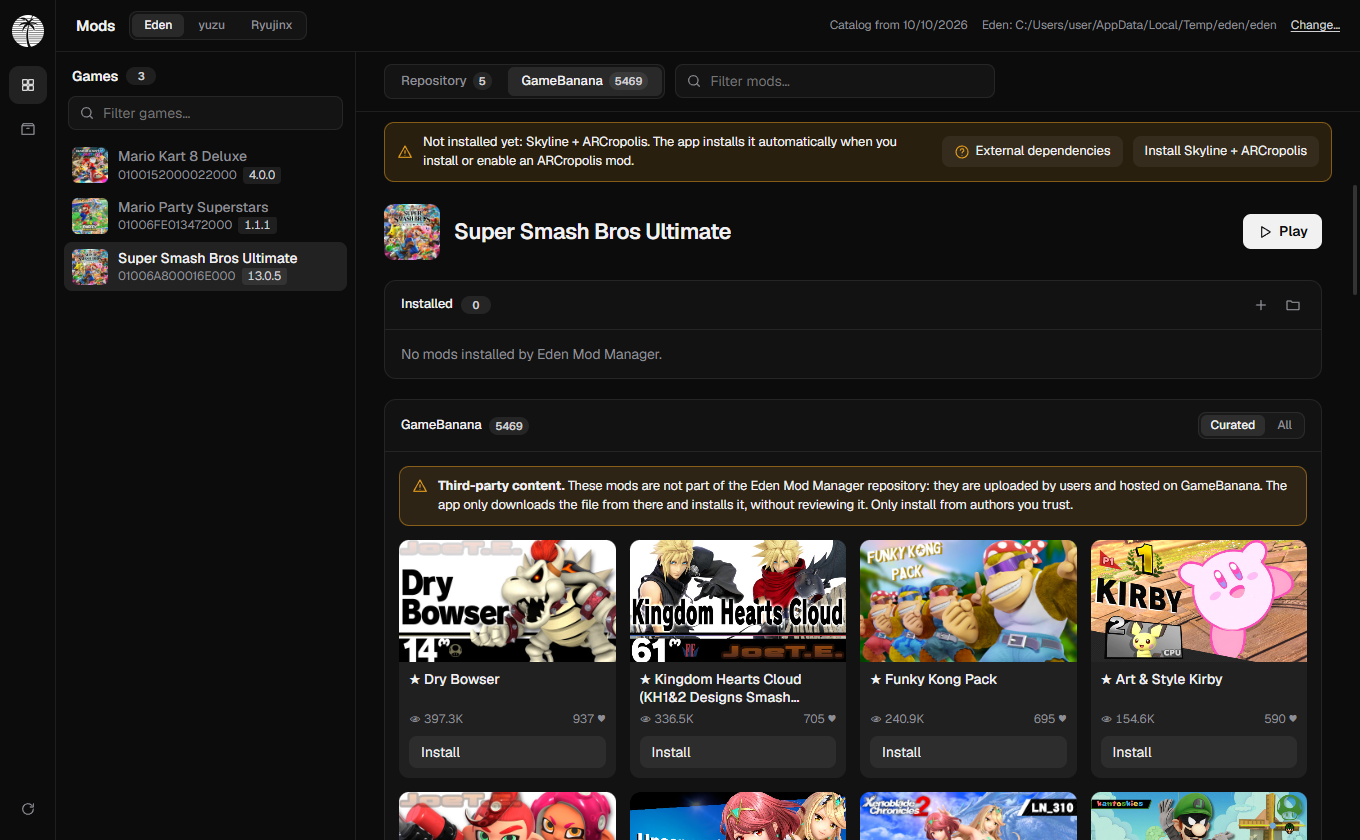
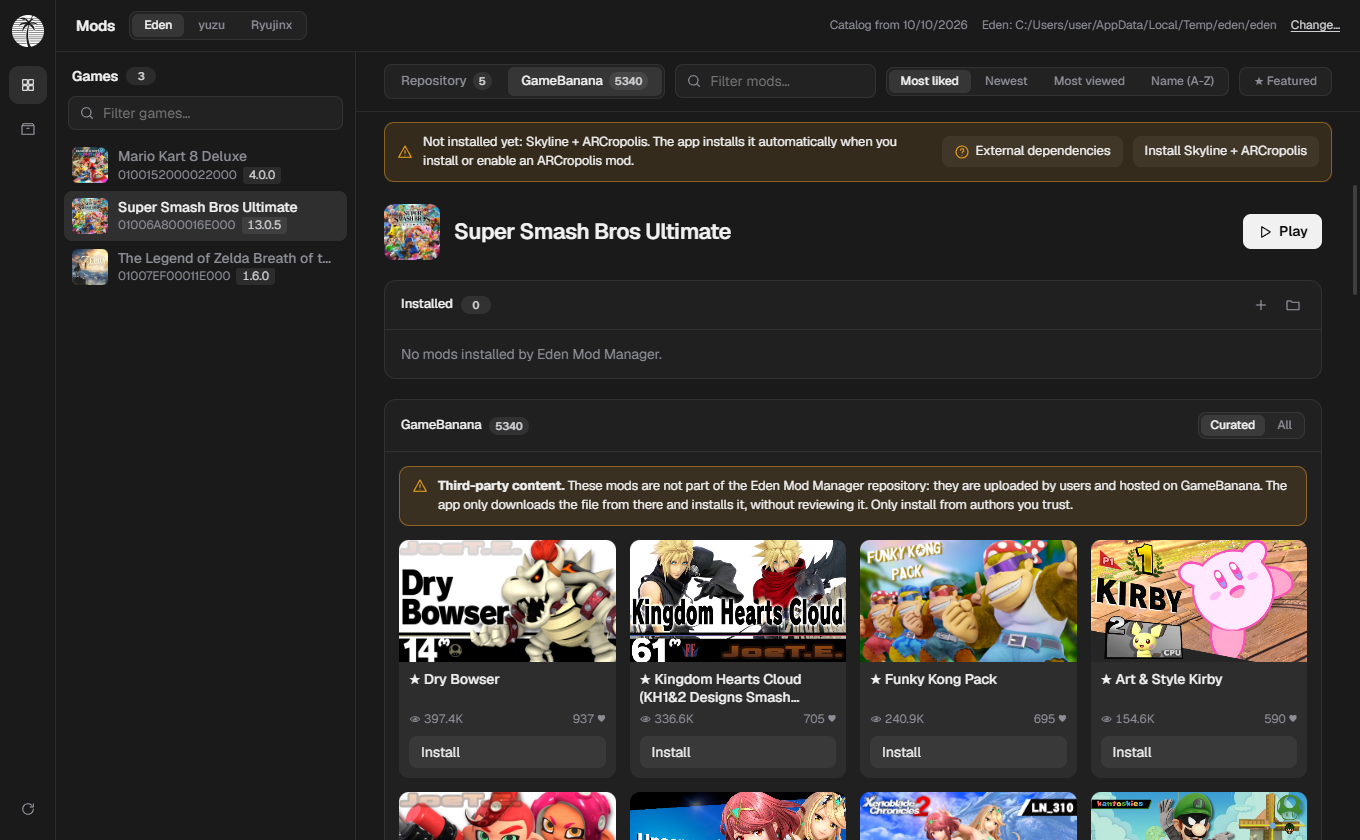
docs: refresh gamebanana screenshot and guide for filter controls (#26)

diff --git a/README.md b/README.md
@@ -39,7 +39,7 @@ Use **+** in the Installed panel to install your own `.zip`, `.7z` or `.rar` arc
 ## Supported mods
 
 - Catalog mods from the official database, TheBoy181, the Switch Mods Wiki Archive and the PT-BR translation pack.
-- GameBanana mods. These are third-party uploads and are not reviewed by this app.
+- GameBanana mods. These are third-party uploads and are not reviewed by this app. Browse curated or all mods, sort by popularity, date, views or name, and filter featured community creations.
 - Standard mod archives with recognized `romfs`, `exefs`, `romfslite`, `romfs_ext` or `cheats` content.
 - Mario Kart 8 Deluxe archives with raw `Audio`, `Course`, `Driver`, `Kart` or `UI` folders.
 - Super Smash Bros. Ultimate ARCropolis mods for Eden and Ryujinx. Yuzu is not supported for ARCropolis.

diff --git a/docs/USER_GUIDE.md b/docs/USER_GUIDE.md
@@ -39,7 +39,7 @@ Click **Install**. Choose the variants you want when the installer asks. Then en
 
 ### From GameBanana
 
-Open the GameBanana tab for a selected game. Select a mod to read its details, then click **Install**.
+Open the GameBanana tab for a selected game. Use the search bar, sort options (Most liked, Newest, Most viewed, Name) and the Featured filter to browse mods. Select a mod to read its details, then click **Install**.
 
 GameBanana mods are uploaded by users. The app does not review these files. Install files only from authors you trust.
 
